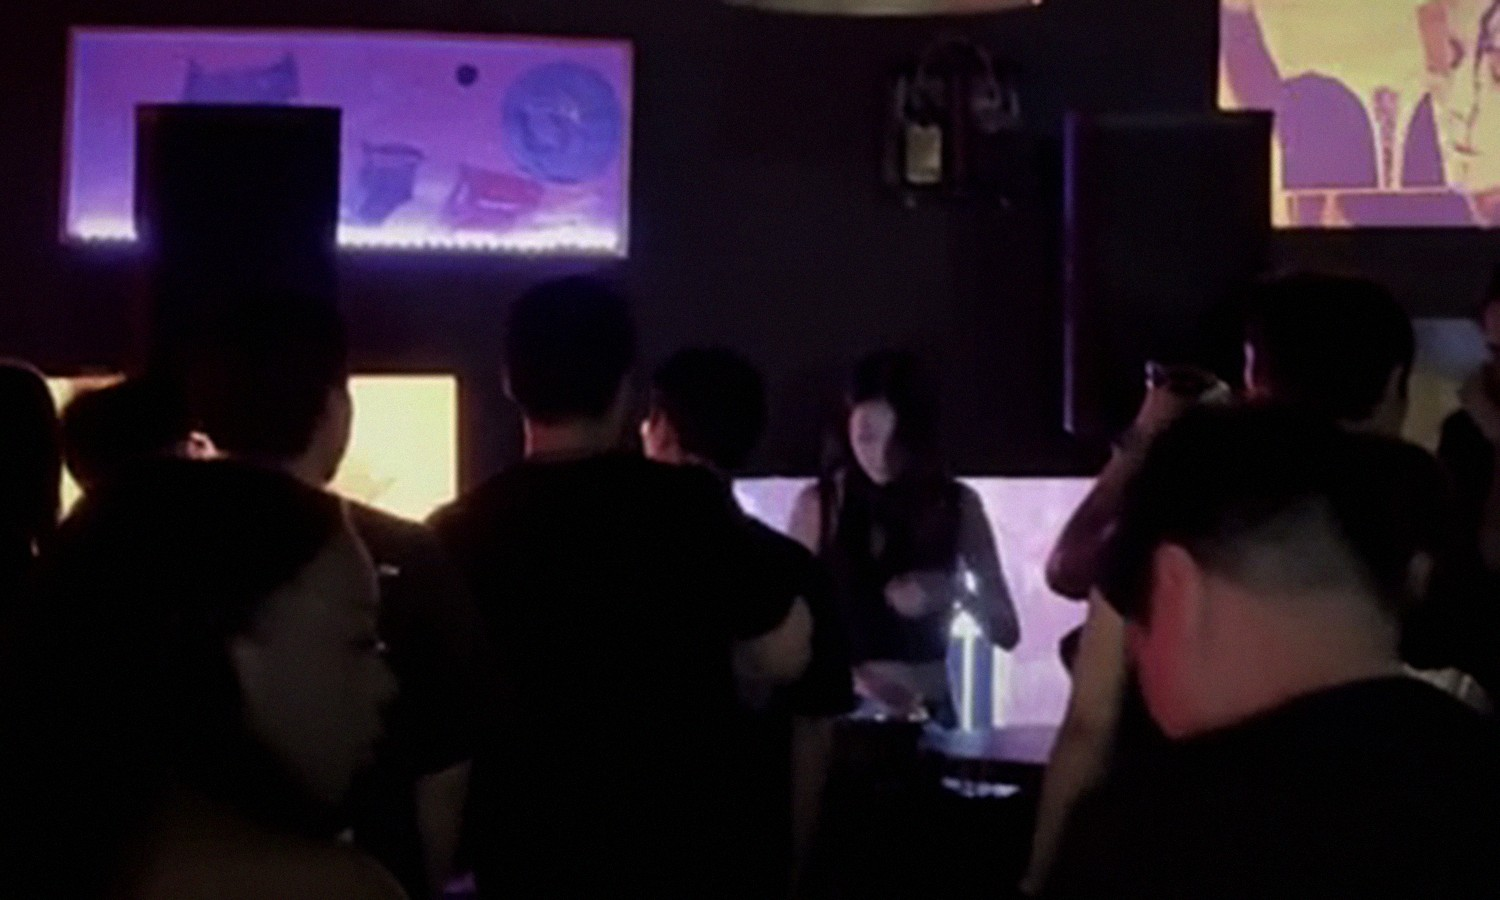
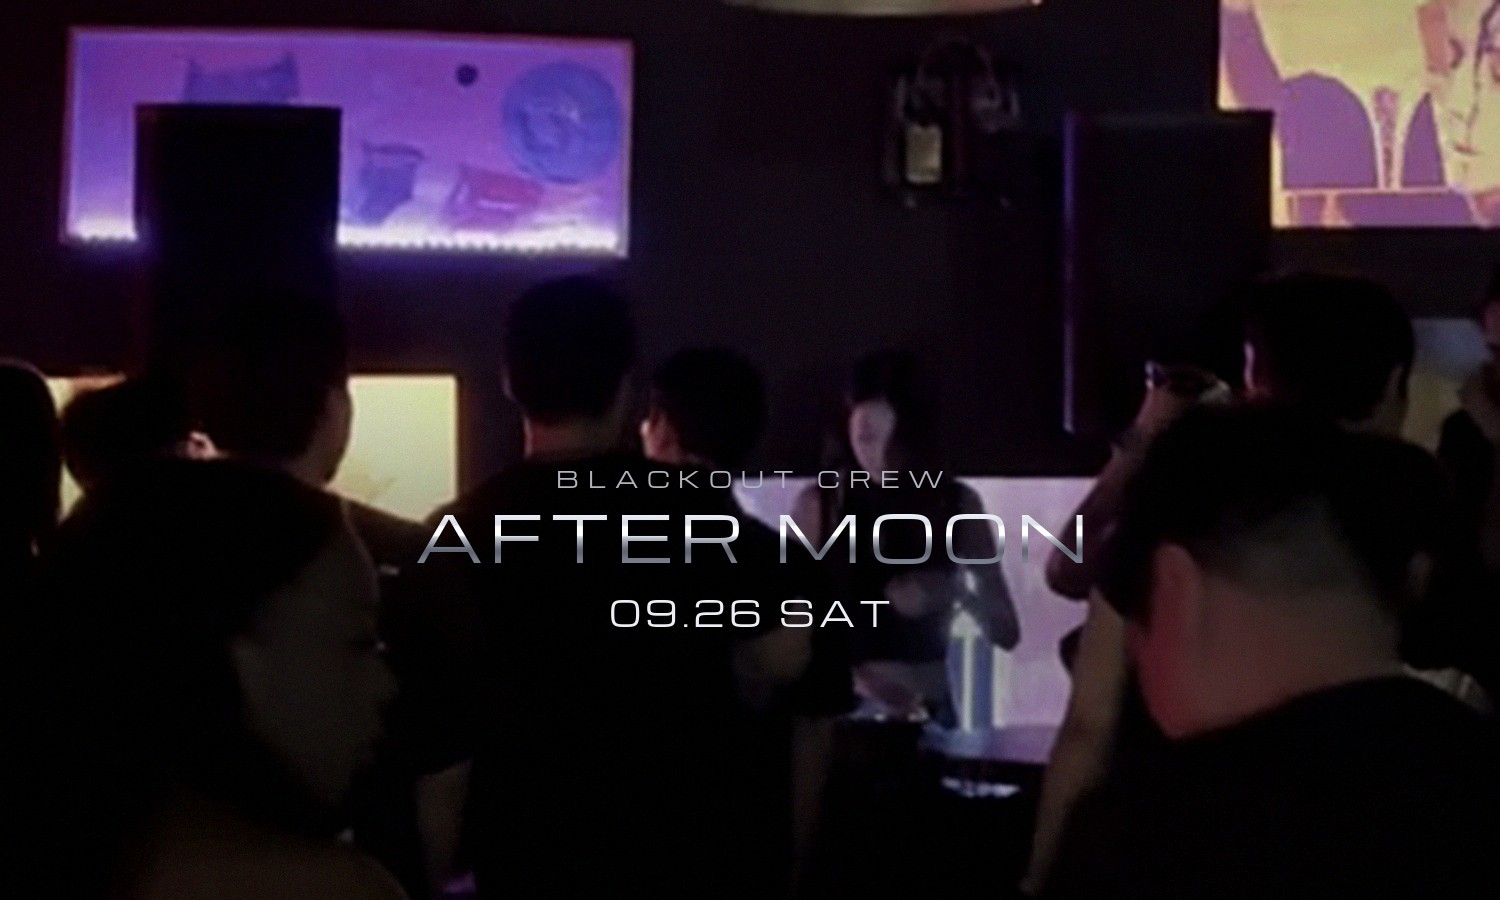
feat: 커버 사진에 파티 이름을 얹는다
캡처만 걸어 두니 무슨 파티인지가 없었다. BLACKOUT CREW · AFTER MOON ·
09.26 SAT 를 가운데 아래에 얹는다. 이름은 은색 금속판, 나머지는 자간
벌린 흰색.

카드가 네 비율로 자른다. 4:5 가 제일 좁아서 가운데 720px 만 남는다.
글자는 전부 그 안에 둔다. 글자 뒤 띠를 조금 더 어둡게 해서 은색이
사진 위에서 읽히게 했다.

글자 없는 원본은 -raw.jpg 로 남긴다. 다시 뽑을 때 거기서 시작한다.
은색 글자 함수는 blackout 저장소 포스터 대본에서 가져온다.

Changed region(s): [[0.2147, 0.4667, 0.8893, 0.8089], [0.0307, 0.5289, 0.0613, 0.5911]]

diff --git a/scripts/after-moon-cover-crowd.py b/scripts/after-moon-cover-crowd.py
@@ -1,0 +1,90 @@
+"""
+AFTER MOON 커버 — 매장 영상 캡처 위에 이름.
+
+  python scripts/after-moon-cover-crowd.py
+
+public/covers/after-moon-crowd*.jpg 를 읽어 글자를 얹고 **같은 파일에
+다시 쓴다.** 글자 없는 원본은 -raw.jpg 로 남긴다.
+
+카드가 네 비율로 자른다. 4:5 가 제일 좁아서 가운데 720px(x 390..1110)
+만 남는다. 글자는 전부 그 안에 둔다.
+
+은색 글자와 자간 함수는 blackout 저장소의 포스터 대본에서 가져온다.
+"""
+import os
+import sys
+
+import numpy as np
+from PIL import Image, ImageDraw, ImageFont
+
+HERE = os.path.dirname(os.path.abspath(__file__))
+BLACKOUT = os.path.join(HERE, '..', '..', 'blackout', 'video')
+sys.path.insert(0, BLACKOUT)
+from poster_moon import metal, tracked, tracked_w  # noqa: E402
+
+FONT = os.path.join(BLACKOUT, 'assets', 'Michroma-Regular.ttf')
+COVERS = os.path.join(HERE, '..', 'public', 'covers')
+W, H = 1500, 900
+SAFE_W = 720
+CX = W // 2
+
+
+def silver(text, size, track):
+    f = ImageFont.truetype(FONT, size)
+    asc, desc = f.getmetrics()
+    im = Image.new('L', (int(tracked_w(text, f, track)) + 24, asc + desc), 0)
+    tracked(ImageDraw.Draw(im), (12, 0), text, f, track, 255)
+    m = np.asarray(im)
+    ys, xs = np.where(m > 0)
+    m = m[ys.min():ys.max() + 1, xs.min():xs.max() + 1].astype(np.float32) / 255.0
+    return metal(*m.shape, m)
+
+
+def fit(text, room, track, cap=200):
+    for sz in range(cap, 30, -2):
+        f = ImageFont.truetype(FONT, sz)
+        if tracked_w(text, f, track) <= room:
+            return sz
+    return 30
+
+
+def write(name):
+    path = os.path.join(COVERS, f'{name}.jpg')
+    raw = os.path.join(COVERS, f'{name}-raw.jpg')
+    if not os.path.exists(raw):
+        os.replace(path, raw)
+    im = Image.open(raw).convert('RGB')
+    a = np.asarray(im, np.float32) / 255.0
+
+    # 글자 뒤를 조금 더 어둡게. 사진이 밝은 자리에 은색을 올리면 안 읽힌다
+    yy = np.arange(H, dtype=np.float32)[:, None, None]
+    a *= 1 - 0.34 * np.exp(-(((yy - H * 0.66) / (H * 0.17)) ** 2))
+    pil = Image.fromarray((np.clip(a, 0, 1) * 255).astype(np.uint8)).convert('RGBA')
+    d = ImageDraw.Draw(pil)
+
+    size = fit('AFTER MOON', SAFE_W - 40, 0.10)
+    mark = silver('AFTER MOON', size, 0.10)
+    mh, mw = mark.shape[:2]
+    y = int(H * 0.60 - mh / 2)
+
+    fe = ImageFont.truetype(FONT, 22)
+    we = tracked_w('BLACKOUT CREW', fe, 0.40)
+    tracked(d, (CX - we / 2, y - 22 - 30), 'BLACKOUT CREW', fe, 0.40,
+            (176, 179, 188, 255))
+
+    pil.alpha_composite(
+        Image.fromarray((np.clip(mark, 0, 1) * 255).astype(np.uint8), 'RGBA'),
+        (CX - mw // 2, y))
+
+    fd = ImageFont.truetype(FONT, 34)
+    wd = tracked_w('09.26 SAT', fd, 0.12)
+    tracked(d, (CX - wd / 2, y + mh + 22), '09.26 SAT', fd, 0.12,
+            (236, 238, 244, 255))
+
+    pil.convert('RGB').save(path, quality=90, optimize=True, progressive=True)
+    print(path, '글자 크기', size)
+
+
+if __name__ == '__main__':
+    write('after-moon-crowd')
+    write('after-moon-crowd-2')
